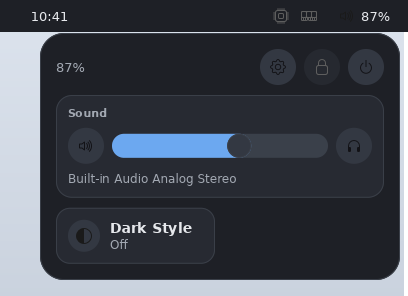
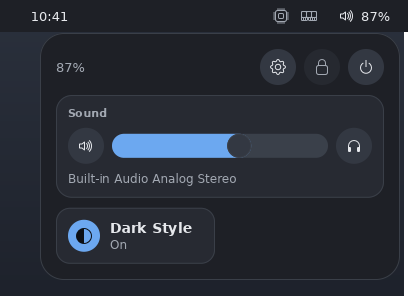
quick settings: dark screenshots rendered with the server in the dark scheme (TestServer::start_configured, Harness::shell_configured); Dark Style reads On (#3872 review)

diff --git a/crates/nitro-bar/tests/quick.rs b/crates/nitro-bar/tests/quick.rs
@@ -354,7 +354,9 @@ fn the_dark_style_tile_flips_theme_scheme_and_keeps_the_rest() {
 
     // The server's reload pushes the new palette; the open menu repaints
     // through the normal path. (The harness server does not watch this
-    // file, so the push is simulated with the palette it would send.)
+    // file, so the push is simulated with the palette it would send.
+    // Client-side only: server-tinted icons keep the server's scheme,
+    // which is fine for a before/after pixel comparison of the panel.)
     let before = h.shot_window(popup(&h));
     h.ui().set_palette(nitro_ui::Palette::dark());
     h.settle();
@@ -416,16 +418,43 @@ mod png;
 #[ignore = "writes docs/quick-settings-*.png"]
 fn screenshots() {
     let docs = Path::new(env!("CARGO_MANIFEST_DIR")).join("../../docs");
-    for (scheme, palette) in [
-        ("light", nitro_ui::Palette::light()),
-        ("dark", nitro_ui::Palette::dark()),
-    ] {
+    for scheme in ["light", "dark"] {
         let dir = scratch(&format!("shot-{scheme}"));
         fake_wpctl(&dir);
-        let mut h = bar_with(&dir);
-        h.ui().set_palette(palette);
+        // Both halves of the scheme: the *server* starts dark, so the
+        // icons it tints (by role byte) get dark inks and the client is
+        // pushed the dark palette; and the bar's own `server.conf` says
+        // dark, so the Dark Style tile reads On.
+        let conf = format!("theme.scheme = {scheme}\n");
+        std::fs::write(dir.join("server.conf"), &conf).unwrap();
+        let state = Bar::new()
+            .with_audio_dirs(vec![dir.clone()])
+            .with_config_path(dir.join("server.conf"))
+            .with_fake_time_ms((9 * 3600 + 41 * 60 + 5) * 1000)
+            .with_sensors(|| nitro_bar::Readings {
+                battery: Some("87%".to_owned()),
+                load: None,
+                mem: None,
+            })
+            .with_settings_command(vec!["/bin/true".to_owned()]);
+        let mut h = Harness::shell_configured(
+            "nitro-bar",
+            state,
+            Surface::bar(BAR_H as u32),
+            Some(Size::new(320.0, BAR_H)),
+            OUT,
+            &conf,
+            build,
+        );
         h.settle();
         open(&mut h);
+        if scheme == "dark" {
+            let dark = in_menu(&mut h, q::DARK);
+            assert!(
+                h.widget::<Tile<Bar>>(dark).is_on(),
+                "the tile reads the file"
+            );
+        }
         write_crop(&mut h, &docs.join(format!("quick-settings-{scheme}.png")));
         let out = in_menu(&mut h, q::OUTPUT);
         act(&mut h, out, "click", None);

diff --git a/crates/nitro-ui/src/test.rs b/crates/nitro-ui/src/test.rs
@@ -58,6 +58,8 @@ struct Options {
     remote: bool,
     /// The fake output's size.
     output: (u32, u32),
+    /// A `server.conf` for the server to start from.
+    server_conf: Option<String>,
 }
 
 impl Options {
@@ -70,6 +72,7 @@ impl Options {
             surface: None,
             remote: false,
             output: OUTPUT,
+            server_conf: None,
         }
     }
 }
@@ -180,6 +183,28 @@ impl<S: 'static> Harness<S> {
         Self::build_with(opts, state, build)
     }
 
+    /// [`Harness::shell_on`] with the server started from a `server.conf`
+    /// holding `conf` — `theme.scheme = dark` for a screenshot of the dark
+    /// desktop, where the server tints the icons too.
+    ///
+    /// # Panics
+    /// As [`Harness::new`].
+    pub fn shell_configured(
+        name: &str,
+        state: S,
+        surface: crate::shell::Surface,
+        size: Option<Size>,
+        output: (u32, u32),
+        conf: &str,
+        build: impl FnOnce(&mut Ui<S>) -> WidgetId,
+    ) -> Self {
+        let mut opts = Options::new(name, size, Theme::default(), true);
+        opts.surface = Some(surface);
+        opts.output = output;
+        opts.server_conf = Some(conf.to_owned());
+        Self::build_with(opts, state, build)
+    }
+
     /// A harness on a **remote** (TCP) connection: the server binds
     /// `127.0.0.1:0`, the client connects to the port the kernel chose,
     /// and the `Welcome` carries `caps::REMOTE`.
@@ -206,9 +231,12 @@ impl<S: 'static> Harness<S> {
             surface,
             remote,
             output,
+            server_conf,
         } = opts;
         let server = if remote {
             TestServer::start_remote(&name, output.0, output.1)
+        } else if let Some(conf) = &server_conf {
+            TestServer::start_configured(&name, output.0, output.1, conf)
         } else {
             TestServer::start(&name, output.0, output.1)
         };

diff --git a/crates/nitro-server/src/test_support.rs b/crates/nitro-server/src/test_support.rs
@@ -77,7 +77,21 @@ impl TestServer {
         Self::start_with_remote(name, width, height, true)
     }
 
+    /// As [`TestServer::start`], with a `server.conf` holding `conf`
+    /// (`theme.scheme = dark`, say), read at start-up like the real one.
+    ///
+    /// # Panics
+    /// As [`TestServer::start`].
+    #[must_use]
+    pub fn start_configured(name: &str, width: u32, height: u32, conf: &str) -> Self {
+        Self::start_full(name, width, height, false, Some(conf))
+    }
+
     fn start_with_remote(name: &str, width: u32, height: u32, remote: bool) -> Self {
+        Self::start_full(name, width, height, remote, None)
+    }
+
+    fn start_full(name: &str, width: u32, height: u32, remote: bool, conf: Option<&str>) -> Self {
         let dir = std::env::temp_dir().join(format!(
             "nitro-ui-test-{}-{name}-{:?}",
             std::process::id(),
@@ -89,10 +103,14 @@ impl TestServer {
         config.backend = BackendKind::Fake { width, height };
         let input = FakeInput::new().expect("eventfd");
         config.fake_input = Some(input.clone());
-        if remote {
+        if remote || conf.is_some() {
             let config_path = dir.join("config").join(crate::config::FILE_NAME);
             std::fs::create_dir_all(config_path.parent().expect("a parent")).expect("config dir");
-            std::fs::write(&config_path, "remote.listen = 127.0.0.1:0\n").expect("server.conf");
+            let mut text = conf.unwrap_or_default().to_owned();
+            if remote {
+                text.push_str("\nremote.listen = 127.0.0.1:0\n");
+            }
+            std::fs::write(&config_path, text).expect("server.conf");
             config.config_path = Some(config_path);
         }
         let wire_path = config.wire_path.clone();

diff --git a/crates/nitro-bar/README.md b/crates/nitro-bar/README.md
@@ -201,10 +201,10 @@ implements it; live volume via a `pw-mon` subscription, if ever wanted.
 `tests/quick.rs` covers the menu with a fake `wpctl` (a shell script
 that keeps its state in files) and a fake `session.sock`. The
 screenshots are regenerated with
-`cargo test -p nitro-bar --test quick -- --ignored screenshots`. In the
-dark ones only the *client* palette is dark: the harness server's
-desktop and the icons it tints still use the light scheme, because the
-harness has no config file to reload.
+`cargo test -p nitro-bar --test quick -- --ignored screenshots`. The
+harness server starts from a `server.conf` with that scheme
+(`Harness::shell_configured`), so the icons it tints get the right inks
+too.
 
 ## Driving it with `hey`
 
